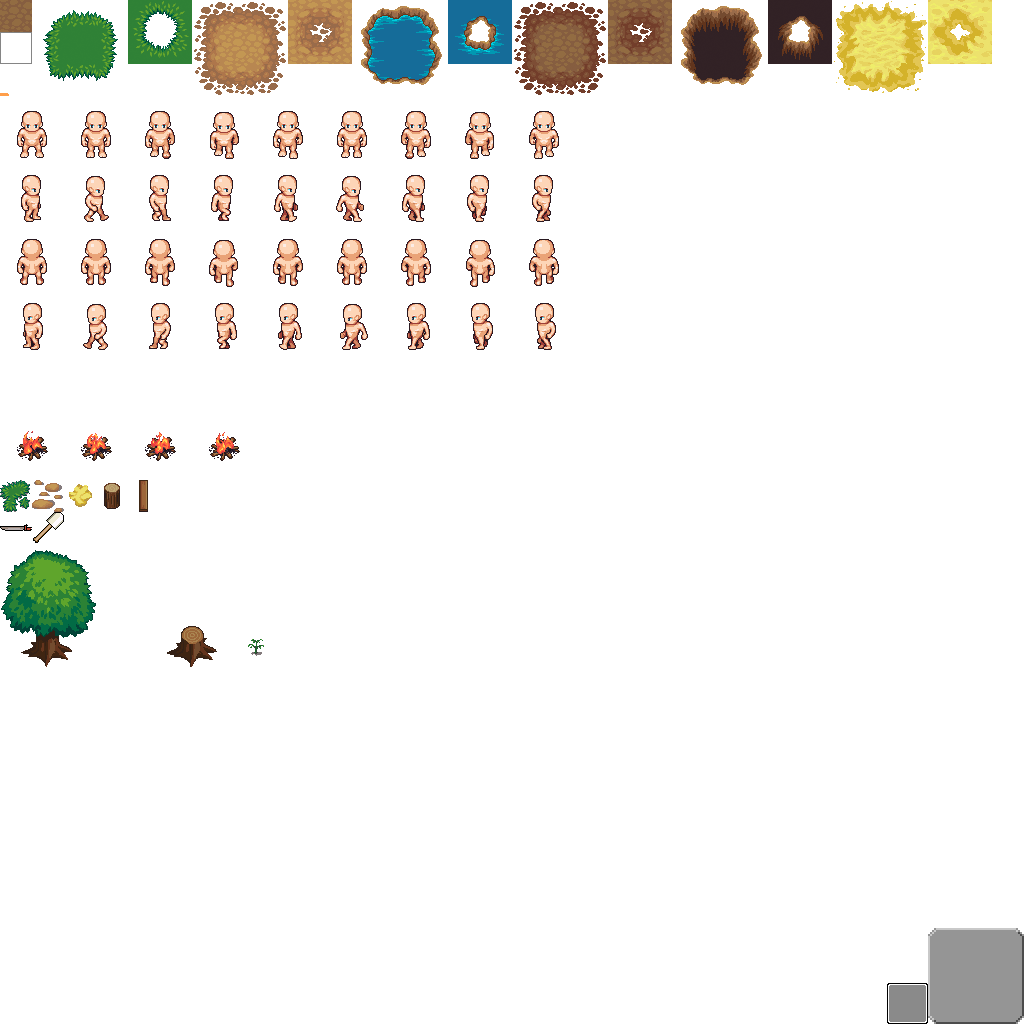
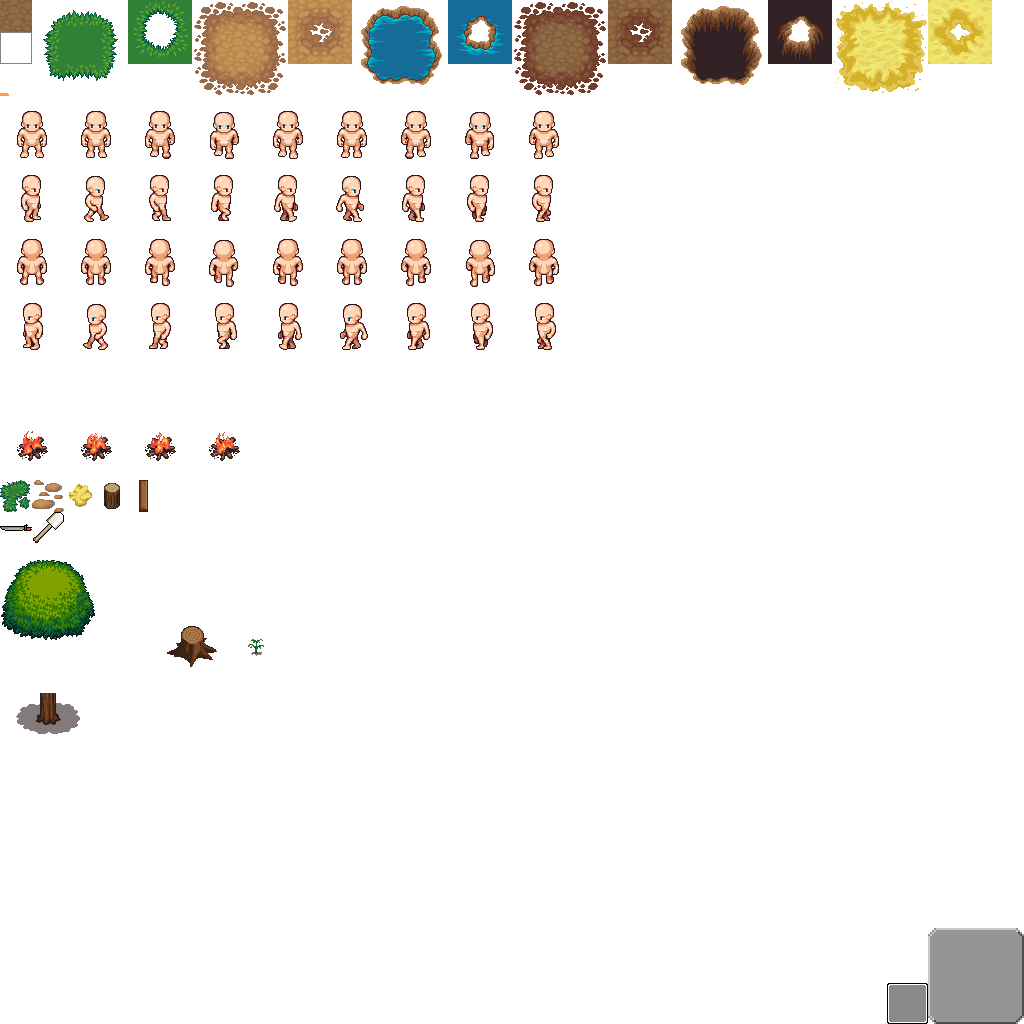
tree stuff

Changed region(s): [[0.0, 0.5312, 0.0938, 0.7188]]

diff --git a/src/com/madbros/adventurecraft/Level.java b/src/com/madbros/adventurecraft/Level.java
@@ -8,6 +8,7 @@ import java.util.ArrayList;
 
 import com.madbros.adventurecraft.TileTypes.*;
 import com.madbros.adventurecraft.Utils.Helpers;
+import com.madbros.adventurecraft.Utils.Point;
 import com.madbros.adventurecraft.Utils.Rect;
 
 public class Level {
@@ -19,6 +20,7 @@ public class Level {
 	public int highlightedBlockY = 0;
 	public String gameName;
 	public SaveGame saveGame = new SaveGame();
+	public Point test = new Point(0, 0);
 	
 	//Keeps track of what part of the activeBlocks array we're rendering. Starts off in the very center.
 	public Rect renderRect = new Rect(TILES_PER_ROW / 2 - (int)Math.ceil(Game.getCenterScreenX() * 1.0 /TILE_SIZE),
@@ -89,8 +91,11 @@ public class Level {
 	
 	public void render() {
 		int i = 0; int j = 0;
+		test.x = 0;
+		test.y = 0;
 		for(int x = renderRect.x; x < renderRect.x2(); x++) {
 			for(int y = renderRect.y; y < renderRect.y2(); y++) {
+				test.y += 1;
 				if(x < activeBlocks.length && y < activeBlocks[0].length && x >= 0 && y >= 0) {
 					activeBlocks[x][y].render(TILE_SIZE * i - offsetX, TILE_SIZE * j - offsetY);
 					if(Game.debugMenu.chunkBoundariesAreOn) {
@@ -102,6 +107,7 @@ public class Level {
 				}
 				j++;
 			}
+			test.x += 1; test.y = 0;
 			i++; j = 0;
 		}
 	}
@@ -201,13 +207,13 @@ public class Level {
 		int absY = y*TILE_SIZE+chunkY*CHUNK_SIZE*TILE_SIZE;
 		
 		if(noise < -0.1) {
-			Tile[] waterTile = {new DarkDirtTile(),  new DirtTile(), new NoTile(), new WaterTile(), new NoTile(), new NoTile()};
+			Tile[] waterTile = {new DarkDirtTile(),  new DirtTile(), new NoTile(), new WaterTile(), new NoTile(), new NoTile(), new NoTile(), new NoTile(), new NoTile(), new NoTile(), new NoTile()};
     		block = new Block(waterTile, absX, absY);
     	} else if(noise > 0.1 && noise < 0.105) {
-    		Tile[] treeTile = {new DarkDirtTile(), new DirtTile(), new GrassTile(), new NoTile(), new TreeTile(), new NoTile()};
+    		Tile[] treeTile = {new DarkDirtTile(), new DirtTile(), new GrassTile(), new NoTile(), new TreeTile(), new NoTile(), new NoTile(), new NoTile(), new NoTile(), new NoTile(), new NoTile()};
     		block = new Block(treeTile, absX, absY);
     	} else {
-    		Tile[] grassTile = {new DarkDirtTile(), new DirtTile(), new GrassTile(), new NoTile(), new NoTile(), new NoTile()};
+    		Tile[] grassTile = {new DarkDirtTile(), new DirtTile(), new GrassTile(), new NoTile(), new NoTile(), new NoTile(), new NoTile(), new NoTile(), new NoTile(), new NoTile(), new NoTile()};
     		block = new Block(grassTile, absX, absY);
     	}
 //		block.mapHeight = noise;

diff --git a/src/com/madbros/adventurecraft/TileTypes/SaplingTile.java b/src/com/madbros/adventurecraft/TileTypes/SaplingTile.java
@@ -35,26 +35,23 @@ public class SaplingTile extends CollisionTile {
 			Game.level.activeBlocks[x][y].collisionTile = new TreeTile();
 			Game.level.activeBlocks[x][y].cRect = new Rect(Game.level.activeBlocks[x][y].aRect, Game.level.activeBlocks[x][y].collisionTile.margin);
 			
-			Game.level.activeBlocks[x-1][y].layers[ABOVE_LAYER_1] = new TreeTile(); 
-			Game.level.activeBlocks[x-1][y].layers[ABOVE_LAYER_1].currentTexture = 1;
-			Game.level.activeBlocks[x-1][y].layers[ABOVE_LAYER_1].z = Z_ABOVE_LAYER;
+			int layer;
+			Block b;
+			int[] xs = {x, x-1, x-1, x, x+1, x+1};
+			int[] ys = {y, y, y-1, y-1, y-1, y};
 			
-			Game.level.activeBlocks[x-1][y-1].layers[ABOVE_LAYER_1] = new TreeTile(); 
-			Game.level.activeBlocks[x-1][y-1].layers[ABOVE_LAYER_1].currentTexture = 2;
-			Game.level.activeBlocks[x-1][y-1].layers[ABOVE_LAYER_1].z = Z_ABOVE_LAYER;
-			
-			Game.level.activeBlocks[x][y-1].layers[ABOVE_LAYER_1] = new TreeTile(); 
-			Game.level.activeBlocks[x][y-1].layers[ABOVE_LAYER_1].currentTexture = 3;
-			Game.level.activeBlocks[x][y-1].layers[ABOVE_LAYER_1].z = Z_ABOVE_LAYER;
-			
-			Game.level.activeBlocks[x+1][y-1].layers[ABOVE_LAYER_1] = new TreeTile(); 
-			Game.level.activeBlocks[x+1][y-1].layers[ABOVE_LAYER_1].currentTexture = 4;
-			Game.level.activeBlocks[x+1][y-1].layers[ABOVE_LAYER_1].z = Z_ABOVE_LAYER;
-			
-			Game.level.activeBlocks[x+1][y].layers[ABOVE_LAYER_1] = new TreeTile(); 
-			Game.level.activeBlocks[x+1][y].layers[ABOVE_LAYER_1].currentTexture = 5;
-			Game.level.activeBlocks[x+1][y].layers[ABOVE_LAYER_1].z = Z_ABOVE_LAYER;
+			for(int i = 0; i < 6; i++) {
+				b = Game.level.activeBlocks[xs[i]][ys[i]];
+				if(b.layers[ABOVE_LAYER_1].id != AIR && b.layers[ABOVE_LAYER_2].id != AIR && b.layers[ABOVE_LAYER_3].id != AIR && b.layers[ABOVE_LAYER_4].id != AIR && b.layers[ABOVE_LAYER_5].id != AIR) layer = ABOVE_LAYER_6;
+				else if(b.layers[ABOVE_LAYER_1].id != AIR && b.layers[ABOVE_LAYER_2].id != AIR && b.layers[ABOVE_LAYER_3].id != AIR && b.layers[ABOVE_LAYER_4].id != AIR) layer = ABOVE_LAYER_5;
+				else if(b.layers[ABOVE_LAYER_1].id != AIR && b.layers[ABOVE_LAYER_2].id != AIR && b.layers[ABOVE_LAYER_3].id != AIR) layer = ABOVE_LAYER_4;
+				else if(b.layers[ABOVE_LAYER_1].id != AIR && b.layers[ABOVE_LAYER_2].id != AIR) layer = ABOVE_LAYER_3;
+				else if(b.layers[ABOVE_LAYER_1].id != AIR) layer = ABOVE_LAYER_2;
+				else layer = ABOVE_LAYER_1;
+				b.layers[layer] = new TreeLeafTile(); 
+				b.layers[layer].currentTexture = i;
+				b.layers[layer].z = Z_ABOVE_LAYER;
+			}
 		}
-		
 	}
 }

diff --git a/src/com/madbros/adventurecraft/Block.java b/src/com/madbros/adventurecraft/Block.java
@@ -28,28 +28,34 @@ public class Block {
 	public Block(Tile[] t, int absX, int absY) {
 		aRect = new Rect(absX, absY);
 		
-		layers = new Tile[6];
-			layers[DARK_DIRT_LAYER] = t[DARK_DIRT_LAYER];
-			layers[LIGHT_DIRT_LAYER] = t[LIGHT_DIRT_LAYER];
-			layers[GRASS_LAYER] = t[GRASS_LAYER];
-			layers[WATER_LAYER] = t[WATER_LAYER];
-			layers[OBJECT_LAYER] = t[OBJECT_LAYER];
-			layers[ABOVE_LAYER_1] = t[ABOVE_LAYER_1];
-			
-			if(t[WATER_LAYER].isCollidable) {
-				collisionTile = (CollisionTile)t[WATER_LAYER];
-				cRect = new Rect(aRect, collisionTile.margin);
-			} else if(t[OBJECT_LAYER].isCollidable) {
-				collisionTile = (CollisionTile)t[OBJECT_LAYER];
-				cRect = new Rect(aRect, collisionTile.margin);
-			}
+		layers = new Tile[11];
+		layers[DARK_DIRT_LAYER] = t[DARK_DIRT_LAYER];
+		layers[LIGHT_DIRT_LAYER] = t[LIGHT_DIRT_LAYER];
+		layers[GRASS_LAYER] = t[GRASS_LAYER];
+		layers[WATER_LAYER] = t[WATER_LAYER];
+		layers[OBJECT_LAYER] = t[OBJECT_LAYER];
+		layers[ABOVE_LAYER_1] = t[ABOVE_LAYER_1];
+		layers[ABOVE_LAYER_2] = t[ABOVE_LAYER_2];
+		layers[ABOVE_LAYER_3] = t[ABOVE_LAYER_3];
+		layers[ABOVE_LAYER_4] = t[ABOVE_LAYER_4];
+		layers[ABOVE_LAYER_5] = t[ABOVE_LAYER_5];
+		layers[ABOVE_LAYER_6] = t[ABOVE_LAYER_6];
+		
+		if(t[WATER_LAYER].isCollidable) {
+			collisionTile = (CollisionTile)t[WATER_LAYER];
+			cRect = new Rect(aRect, collisionTile.margin);
+		} else if(t[OBJECT_LAYER].isCollidable) {
+			collisionTile = (CollisionTile)t[OBJECT_LAYER];
+			cRect = new Rect(aRect, collisionTile.margin);
+		}
 	}
 	
 	public void render(int x, int y) {
 		Tile[] renderTiles = getRenderTiles();
 		
 		for(int i = 0; i < renderTiles.length;i++) {
-			renderTiles[i].render(x, y);
+			if(renderTiles[i].id == TREE_LEAF) ((TreeLeafTile)renderTiles[i]).render(x, y, i);
+			else renderTiles[i].render(x, y);
 		}
 		
 		Tile topTile = getTopTile();
@@ -114,7 +120,12 @@ public class Block {
 	
 	//returns all visable layers
 	public Tile[] getRenderTiles() {
-		Tile[] tiles = new Tile[6];
+		Tile[] tiles = new Tile[11];
+		tiles[ABOVE_LAYER_6] = layers[ABOVE_LAYER_6];
+		tiles[ABOVE_LAYER_5] = layers[ABOVE_LAYER_5];
+		tiles[ABOVE_LAYER_4] = layers[ABOVE_LAYER_4];
+		tiles[ABOVE_LAYER_3] = layers[ABOVE_LAYER_3];
+		tiles[ABOVE_LAYER_2] = layers[ABOVE_LAYER_2];
 		tiles[ABOVE_LAYER_1] = layers[ABOVE_LAYER_1];
 		tiles[OBJECT_LAYER] = layers[OBJECT_LAYER];
 		

diff --git a/src/com/madbros/adventurecraft/Textures.java b/src/com/madbros/adventurecraft/Textures.java
@@ -23,6 +23,7 @@ public class Textures {
 	public static Sprite[] grassTextures;
 	public static Sprite[] dirtTextures;
 	public static Sprite[] treeTextures;
+	public static Sprite[] treeLeafTextures;
 	public static Sprite[] waterTextures;
 	public static Sprite[] holeTextures;
 	public static Sprite[] sandTextures;
@@ -97,13 +98,16 @@ public class Textures {
 			
 			saplingTexture = new Sprite[]{new Sprite(atlas, 224, 608, 64, 64)};
 			
-			treeTextures = new Sprite[6];
-			treeTextures[0] = new Sprite(atlas, 16, 608, 64, 64);
-			treeTextures[1] = new Sprite(atlas, -48, 608, 64, 64);
-			treeTextures[2] = new Sprite(atlas, -48, 544, 64, 64);
-			treeTextures[3] = new Sprite(atlas, 16, 544, 64, 64);
-			treeTextures[4] = new Sprite(atlas, 80, 544, 64, 64);
-			treeTextures[5] = new Sprite(atlas, 80, 608, 64, 64);
+			treeLeafTextures = new Sprite[6];
+			treeLeafTextures[0] = new Sprite(atlas, 16, 608, 64, 64);
+			treeLeafTextures[1] = new Sprite(atlas, -48, 608, 64, 64);
+			treeLeafTextures[2] = new Sprite(atlas, -48, 544, 64, 64);
+			treeLeafTextures[3] = new Sprite(atlas, 16, 544, 64, 64);
+			treeLeafTextures[4] = new Sprite(atlas, 80, 544, 64, 64);
+			treeLeafTextures[5] = new Sprite(atlas, 80, 608, 64, 64);
+			
+			treeTextures = new Sprite[1];
+			treeTextures[0] = new Sprite(atlas, 16, 672, 64, 64);
 			
 			menuTextures = new Sprite[3][3];
 			for(int i = 0; i < 3; i++) {

diff --git a/src/com/madbros/adventurecraft/TileTypes/TreeLeafTile.java b/src/com/madbros/adventurecraft/TileTypes/TreeLeafTile.java
@@ -1,0 +1,39 @@
+package com.madbros.adventurecraft.TileTypes;
+
+import static com.madbros.adventurecraft.Constants.*;
+
+import com.madbros.adventurecraft.*;
+import com.madbros.adventurecraft.Utils.Helpers;
+import com.madbros.adventurecraft.Utils.Margin;
+
+public class TreeLeafTile extends CollisionTile {
+	public TreeLeafTile() {
+		super();
+		currentTexture = 0;
+		textures = Textures.treeLeafTextures;
+		margin = new Margin(9, 9, 12, 11);
+		id = TREE_LEAF;
+		layer = ABOVE_LAYER_1;
+		z = Z_ABOVE_LAYER;
+		isDiggable = false;
+	}
+	
+//	@Override
+	public void render(int x, int y, int layer) {
+		float z;
+//		if(currentTexture == 0 ) {
+		Helpers.println(String.valueOf(layer / 100f));	//FIXME!!
+		z = this.z + Math.max(layer / 100f, layer / 100f);
+//			else z = this.z + Math.max(Game.level.test.x / 1000f, Game.level.test.y / 1000f);
+//		} else {
+//			z = Z_ABOVE_LAYER;
+//		}
+//		if(y > Game.hero.sRect.y) z = Z_ABOVE_LAYER;// + Math.max(Game.level.test.x / 1000f, Game.level.test.y / 1000f);	//FIXME: not an ideal conditional
+//		else z = this.z;// + Math.max(Game.level.test.x / 1000f, Game.level.test.y / 1000f);
+		textures[currentTexture].draw(x, y, z, TILE_SIZE * Game.pixelModifier, TILE_SIZE * Game.pixelModifier);
+	}
+	
+	public Tile createNew() {
+		return new TreeTile();
+	}
+}

diff --git a/src/com/madbros/adventurecraft/Constants.java b/src/com/madbros/adventurecraft/Constants.java
@@ -93,6 +93,7 @@ public class Constants {
 	public static final int HOLE = 7;
 	public static final int DARK_DIRT = 8;
 	public static final int SAPLING = 9;
+	public static final int TREE_LEAF = 10;
 	
 	//Layers
 	public static final int DARK_DIRT_LAYER = 0;
@@ -103,6 +104,9 @@ public class Constants {
 	public static final int ABOVE_LAYER_1 = 5;
 	public static final int ABOVE_LAYER_2 = 6;
 	public static final int ABOVE_LAYER_3 = 7;
+	public static final int ABOVE_LAYER_4 = 8;
+	public static final int ABOVE_LAYER_5 = 9;
+	public static final int ABOVE_LAYER_6 = 10;
 
 	//z-depth
 	public static final float Z_DARK_DIRT = -0.9f;
@@ -116,6 +120,7 @@ public class Constants {
 	public static final float Z_CHARACTER = -0.6f;
 	public static final float Z_COLLISION_RECTS = -0.57f;
 	public static final float Z_ABOVE_LAYER = -0.55f;
+	public static final float Z_ABOVE_LAYER2 = -0.54f;
 	public static final float Z_BOUNDARIES = -0.53f;
 	
 	public static final float Z_HEALTHBAR = -0.52f;

diff --git a/src/com/madbros/adventurecraft/TileTypes/TreeTile.java b/src/com/madbros/adventurecraft/TileTypes/TreeTile.java
@@ -12,16 +12,13 @@ public class TreeTile extends CollisionTile {
 		textures = Textures.treeTextures;
 		margin = new Margin(3, 3, 0, 12);
 		id = TREE;
-		layer = WATER_LAYER;
-		z = Z_WATER;
+		layer = OBJECT_LAYER;
+		z = Z_OBJECT;
 		isDiggable = false;
 	}
 	
 	@Override
 	public void render(int x, int y) {
-		float z;
-		if(y > Game.hero.sRect.y) z = Z_ABOVE_LAYER;	//FIXME: not an ideal conditional
-		else z = this.z;
 		textures[currentTexture].draw(x, y, z, TILE_SIZE * Game.pixelModifier, TILE_SIZE * Game.pixelModifier);
 	}
 	

diff --git a/src/com/madbros/adventurecraft/Items/BlockItem.java b/src/com/madbros/adventurecraft/Items/BlockItem.java
@@ -19,7 +19,7 @@ public abstract class BlockItem extends StackableItem{
 		Tile tile = TILE_HASH.get(tileId).createNew();
 		Block hB = Game.level.highlightedBlock;
 		
-		if(Helpers.arrayDoesContainInt(placeableTileIds, hB.getTopTerrainTile().id)) {
+		if(Helpers.arrayDoesContainInt(placeableTileIds, hB.getTopTerrainTile().id) && AIR == hB.layers[OBJECT_LAYER].id) {
 			placeTile(hB, tile);
 			stackSize -= 1;
 			Game.inventory.deleteItemIfNecessary();

diff --git a/src/com/madbros/adventurecraft/Items/SandClump.java b/src/com/madbros/adventurecraft/Items/SandClump.java
@@ -22,10 +22,9 @@ public class SandClump extends BlockItem {
 
 	@Override
 	public void placeTile(Block hB, Tile tile) {
-		if(hB.layers[WATER_LAYER].id == HOLE) {
+		if(hB.layers[WATER_LAYER].id == WATER) {
 			hB.layers[GRASS_LAYER] = tile;
 			hB.layers[WATER_LAYER] = new NoTile();
-			hB.layers[LIGHT_DIRT_LAYER] = new NoTile();
 			hB.collisionTile = null;
 			hB.cRect = null;
 		} else {

diff --git a/src/com/madbros/adventurecraft/Items/Sapling.java b/src/com/madbros/adventurecraft/Items/Sapling.java
@@ -12,6 +12,7 @@ public class Sapling extends BlockItem {
 	public Sapling() {
 		id = SAPLING_ITEM;
 		tileId = SAPLING;
+		
 		placeableTileIds = new int[]{GRASS};
 		texture = Textures.saplingItemTexture;
 	}

diff --git a/src/com/madbros/adventurecraft/Inventory.java b/src/com/madbros/adventurecraft/Inventory.java
@@ -61,6 +61,7 @@ public class Inventory {
 		invBar[5].item.stackSize = 99;
 		invBar[6].item = new Shovel();
 		invBar[7].item = new Sapling();
+		invBar[7].item.stackSize = 99;
 	}
 	
 	public void update() {

diff --git a/src/com/madbros/adventurecraft/GameObject.java b/src/com/madbros/adventurecraft/GameObject.java
@@ -1,0 +1,5 @@
+package com.madbros.adventurecraft;
+
+public class GameObject {
+//absRect
+}
